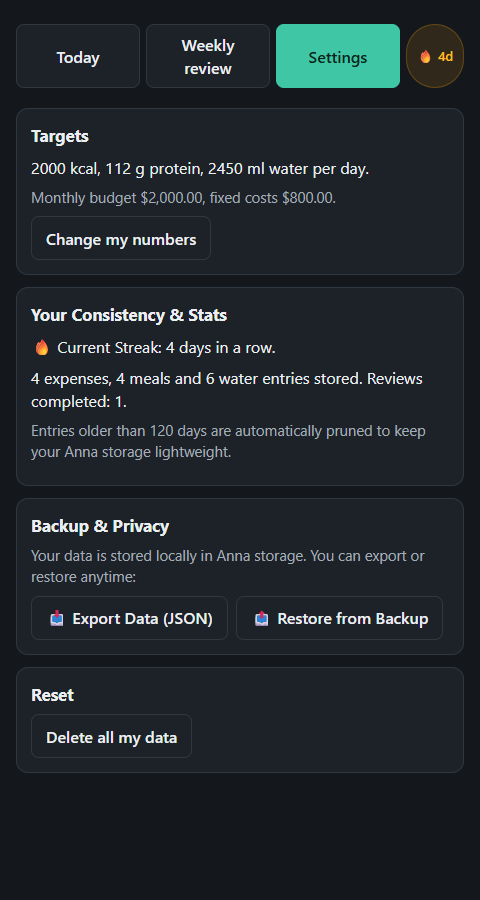
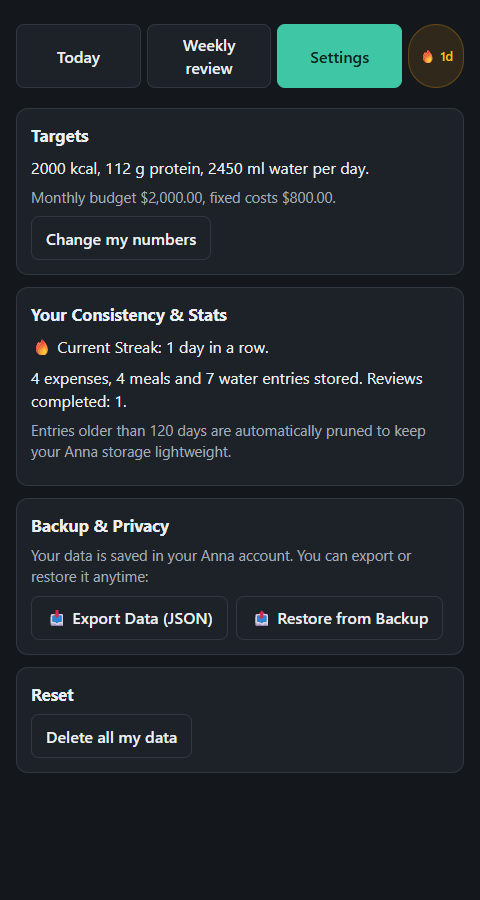
Correct Anna privacy copy and prepare app v0.1.10

diff --git a/anna/bundle/app.js b/anna/bundle/app.js
@@ -620,7 +620,7 @@ function settingsView() {
       h("p", { class: "muted" }, `Entries older than ${KEEP_DAYS} days are automatically pruned to keep your Anna storage lightweight.`)),
 
     h("div", { class: "card" }, h("h2", {}, "Backup & Privacy"),
-      h("p", { class: "muted" }, "Your data is stored locally in Anna storage. You can export or restore anytime:"),
+      h("p", { class: "muted" }, "Your data is saved in your Anna account. You can export or restore it anytime:"),
       h("div", { class: "row" },
         h("button", { onclick: exportBackup }, "📥 Export Data (JSON)"),
         h("button", { onclick: () => fileInput.click() }, "📤 Restore from Backup"),

diff --git a/anna/tests/protocol_check.py b/anna/tests/protocol_check.py
@@ -46,8 +46,8 @@ assert [response["id"] for response in responses] == ["first", 2, "ping", "inval
 assert all(response["jsonrpc"] == "2.0" for response in responses)
 for index in (0, 1, 4):
     result = responses[index]["result"]
-    assert result["version"] == "0.1.5"
+    assert result["version"] == "0.1.6"
     assert [tool["name"] for tool in result["tools"]] == ["ping", "plan_targets", "weekly_review"]
-assert responses[2]["result"] == {"success": True, "data": {"pong": True, "version": "0.1.5"}}
+assert responses[2]["result"] == {"success": True, "data": {"pong": True, "version": "0.1.6"}}
 assert responses[3]["result"]["success"] is False
 print("protocol check passed: describe, invoke, failure, recovery, EOF")

diff --git a/anna/executas/smartassistant/smartassistant_plugin.py b/anna/executas/smartassistant/smartassistant_plugin.py
@@ -20,7 +20,7 @@ from collections import defaultdict
 from datetime import date, timedelta
 from calendar import monthrange
 
-VERSION = "0.1.5"
+VERSION = "0.1.6"
 MIN_LOGGED_DAYS = 3
 
 ACTIVITY = {

diff --git a/anna/README.md b/anna/README.md
@@ -38,11 +38,11 @@ On Windows the CLI prints a libuv assertion on exit. It is harmless.
 
 Cloud Agent runs on Linux, so a `linux-x86_64` Executa build must exist before you cut a version.
 
-1. Push a tag: `git tag executa-v0.1.5 && git push origin executa-v0.1.5`.
+1. Push a tag: `git tag executa-v0.1.6 && git push origin executa-v0.1.6`.
 2. `.github/workflows/executa-build.yml` runs the tests, builds all three binaries with PyInstaller, smoke-tests them, and attaches the `.tar.gz` and `.sha256` files to the release.
-3. `executas/smartassistant/executa.json` points at the matching `executa-v0.1.5` release. The archive contains `manifest.json` and a `bin/` entrypoint. Change the tag, URLs, and Executa versions together for a future release.
+3. `executas/smartassistant/executa.json` points at the matching `executa-v0.1.6` release. The archive contains `manifest.json` and a `bin/` entrypoint. Change the tag, URLs, and Executa versions together for a future release.
 
-The v0.1.5 release workflow completed successfully on GitHub. Check its release assets again before cutting a later app version.
+Check the v0.1.6 release workflow and its release assets before cutting the app version.
 
 ## Tracking real usage
 
@@ -51,12 +51,11 @@ A qualified run needs a signed-in user, a successful primary function and a non-
 <a id="privacy"></a>
 ## Privacy
 
-SmartAssistant operates with strict user privacy and offline-first principles:
+The Anna App saves profile, expense, meal, water, and review records under `smartassistant:v1` in Anna's user-isolated App storage. Anna operates this persistent storage service. The App sends inputs to its bundled Executa for target calculations and weekly reviews; it does not send these records to a separate SmartAssistant server or third-party analytics service.
 
-- **Local Storage:** All financial runway numbers, logged meals, and hydration data are stored exclusively in your local Anna storage (`smartassistant:v1`). No data is sent to external servers or telemetry services.
-- **Data Retention & Auto-Pruning:** Entries older than 120 days are automatically deleted to keep your storage lightweight.
-- **Full Data Wipe:** You can permanently delete all stored profile targets and entries at any time via the "Delete all my data" button in Settings.
-- **Medical Disclaimer:** Calorie, macronutrient, and metabolic burn estimates use the clinical Mifflin-St Jeor formula and are for informational purposes only, not medical advice.
+- **Retention:** Expense, meal, and water entries older than 120 days are removed when the App saves data. The 26 most recent reviews are kept.
+- **Export and deletion:** Settings lets users export a JSON backup, restore it, or permanently delete the App's stored profile and entries. Exported files remain wherever users save them until they delete those files themselves.
+- **Health information:** Calorie, macronutrient, and metabolic estimates are informational and are not medical advice.
 
 ## Before you publish (you do these)
 

diff --git a/README.md b/README.md
@@ -148,12 +148,13 @@ Visit **`http://localhost:5173`**.
 <a id="privacy"></a>
 ## Privacy
 
-SmartAssistant is built with a strict offline-first, local-storage architecture:
+**Anna App:** Your profile, expense, meal, water, and review records are saved under `smartassistant:v1` in Anna's user-isolated App storage. Anna operates this persistent storage service; these records are sent to Anna when saved or loaded. The App sends inputs to its bundled Executa to calculate targets and weekly reviews. The Anna App does not send these records to a separate SmartAssistant server or third-party analytics service.
 
-- **Local Storage:** All financial runway numbers, logged meals, and hydration data are stored exclusively in your local storage / Anna storage (`smartassistant:v1`). No data is sent to external servers or telemetry services.
-- **Data Retention & Auto-Pruning:** Entries older than 120 days are automatically deleted to keep your storage lightweight.
-- **Full Data Wipe:** You can permanently delete all stored profile targets and entries at any time via the "Delete all my data" button in Settings.
-- **Medical Disclaimer:** Calorie, macronutrient, and metabolic burn estimates use the clinical Mifflin-St Jeor formula and are for informational purposes only, not medical advice.
+- **Retention:** The App removes expense, meal, and water entries older than 120 days when it saves your data. It keeps the 26 most recent reviews.
+- **Export and deletion:** Settings lets you export a JSON backup, restore it, or permanently delete the App's stored profile and entries. A downloaded backup remains wherever you save it until you delete that file yourself.
+- **Health information:** Calorie, macronutrient, and metabolic estimates are informational and are not medical advice.
+
+The separate React and Node.js application in `frontend/` and `backend/` has its own storage and authentication implementation; this Anna App privacy description applies to the `anna/` build.
 
 ---
 
